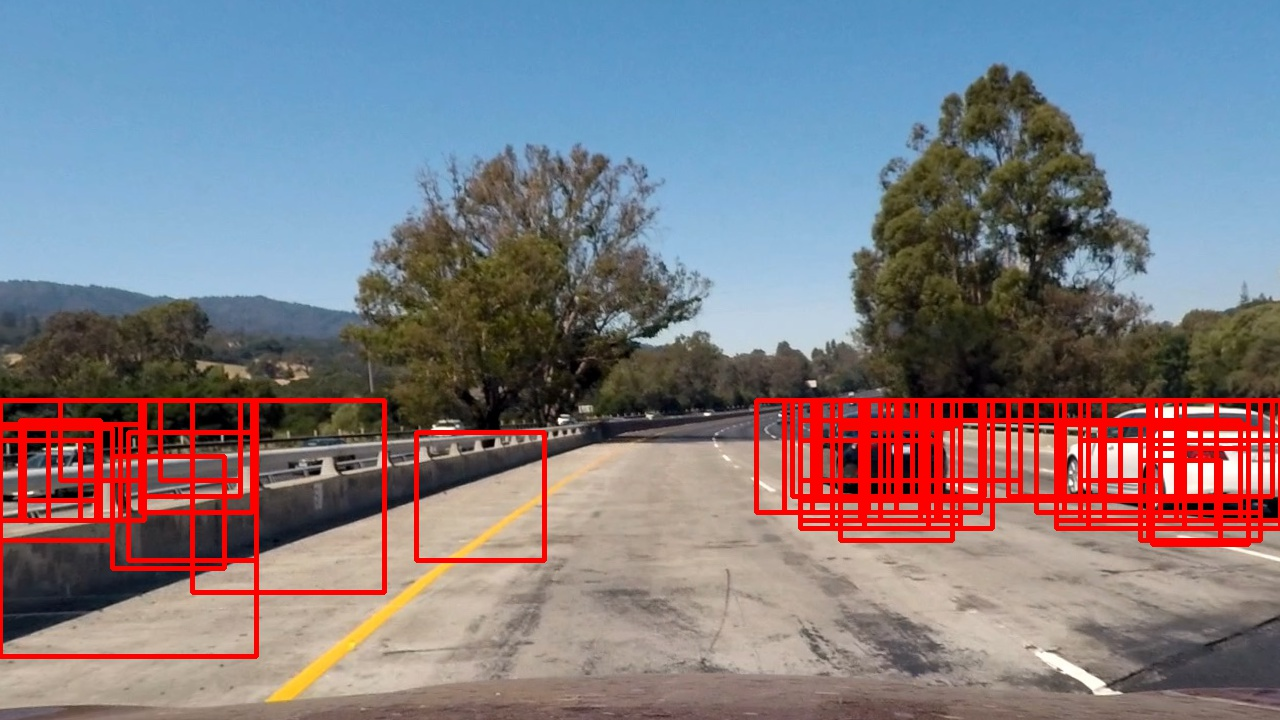
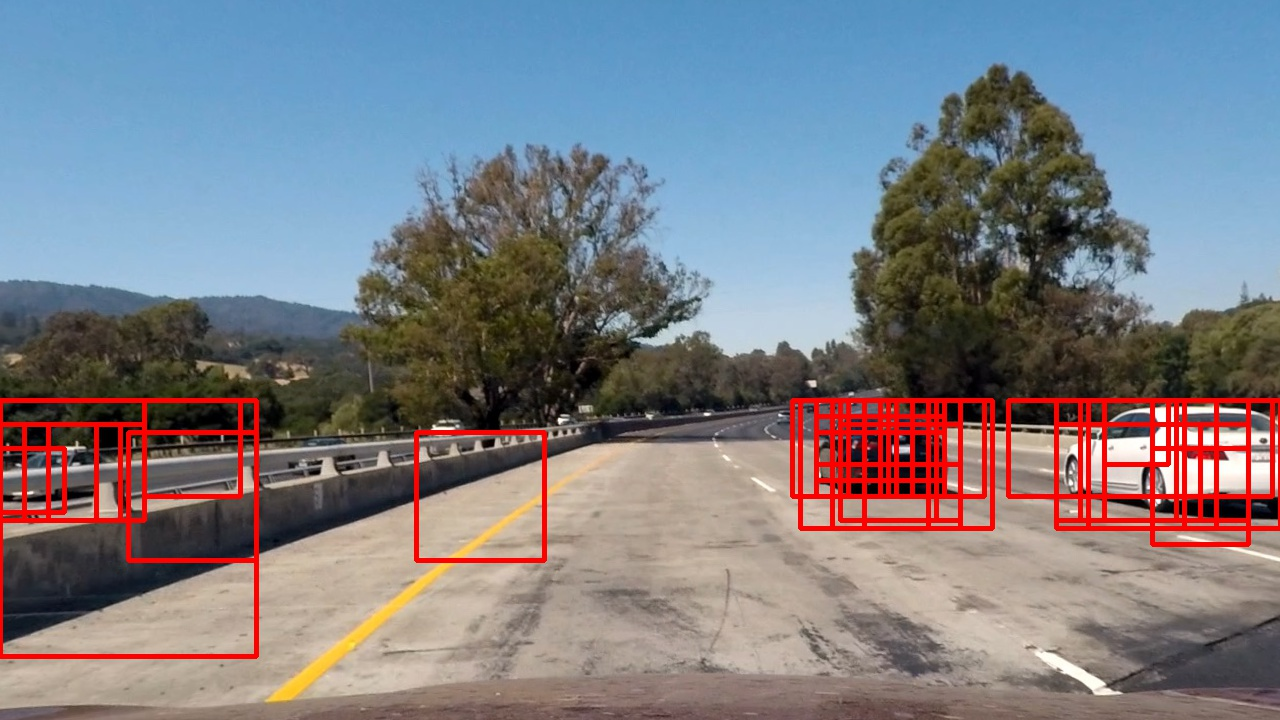
update result

Changed region(s): [[0.5625, 0.55, 1.0, 0.7639], [0.0, 0.55, 0.3125, 0.825]]

diff --git a/writeup.md b/writeup.md
@@ -13,13 +13,6 @@ The goals / steps of this project are the following:
 * Run your pipeline on a video stream (start with the test_video.mp4 and later implement on full project_video.mp4) and create a heat map of recurring detections frame by frame to reject outliers and follow detected vehicles.
 * Estimate a bounding box for vehicles detected.
 
-[//]: # (Image References)
-[image3]: ./examples/sliding_windows.jpg
-[image4]: ./examples/sliding_window.jpg
-[image5]: ./examples/bboxes_and_heat.png
-[image6]: ./examples/labels_map.png
-[image7]: ./examples/output_bboxes.png
-[video1]: ./project_video.mp4
 
 ## [Rubric](https://review.udacity.com/#!/rubrics/513/view) Points
 ###Here I will consider the rubric points individually and describe how I addressed each point in my implementation.  
@@ -116,23 +109,23 @@ You're reading it!
 
 ####1. Describe how (and identify where in your code) you implemented a sliding window search.  How did you decide what scales to search and how much to overlap windows?
 
-* 
+* tuned parameters with `debug_interative_window_search.ipynb`
+  * overlap : 0.25 (cells_per_step = 2)
+  * scale : 1.0, 1.5, 2.0, 4.0
 
 ####2. Show some examples of test images to demonstrate how your pipeline is working.  What did you do to optimize the performance of your classifier?
 
-Ultimately I searched on two scales using YCrCb 3-channel HOG features plus spatially binned color and histograms of color in the feature vector, which provided a nice result.  Here are some example images:
+Ultimately I searched on 4 scales using YCrCb 3-channel HOG features plus spatially binned color and histograms of color in the feature vector, which provided a nice result.  Here are some example images:
 
-![test1](./test_images/test1.jpg =400x)
-![test1](./output_images/test1.jpg =400x)
+![test1](./output_images/window_bboxes_test1.jpg =300x)
+![test2](./output_images/window_bboxes_test2.jpg =300x)
 
-![test2](./test_images/test2.jpg =400x)
-![test2](./test_images/test2.jpg =400x)
+![test3](./output_images/window_bboxes_test3.jpg =300x)
+![test4](./output_images/window_bboxes_test4.jpg =300x)
 
-![test3](./test_images/test3.jpg =400x)
-![test3](./test_images/test3.jpg =400x)
+![test5](./output_images/window_bboxes_test5.jpg =300x)
+![test6](./output_images/window_bboxes_test6.jpg =300x)
 
-
-![alt text][image4]
 ---
 
 ### Video Implementation
@@ -149,14 +142,33 @@ Here's an example result showing the heatmap from a series of frames of video, t
 
 ### Here are six frames and their corresponding heatmaps:
 
-![alt text][image5]
+![frame1](./test_images/test_video_frames/1.jpg =300x)
+![frame1](./output_images/window_heatmap_test1.png =300x)
+
+![frame2](./test_images/test_video_frames/2.jpg =300x)
+![frame2](./output_images/window_heatmap_test2.png =300x)
+
+![frame3](./test_images/test_video_frames/3.jpg =300x)
+![frame3](./output_images/window_heatmap_test3.png =300x)
+
+![frame4](./test_images/test_video_frames/4.jpg =300x)
+![frame4](./output_images/window_heatmap_test4.png =300x)
+
+![frame5](./test_images/test_video_frames/5.jpg =300x)
+![frame5](./output_images/window_heatmap_test5.png =300x)
+
+![frame6](./test_images/test_video_frames/6.jpg =300x)
+![frame6](./output_images/window_heatmap_test6.png =300x)
+
 
 ### Here is the output of `scipy.ndimage.measurements.label()` on the integrated heatmap from all six frames:
-![alt text][image6]
+![label](./output_images/window_label.png =400x)
+
+
 
 ### Here the resulting bounding boxes are drawn onto the last frame in the series:
-![alt text][image7]
 
+![result](./output_images/window_result.jpg =400x)
 
 
 ---
@@ -165,9 +177,13 @@ Here's an example result showing the heatmap from a series of frames of video, t
 
 ####1. Briefly discuss any problems / issues you faced in your implementation of this project.  Where will your pipeline likely fail?  What could you do to make it more robust?
 
-Here I'll talk about the approach I took, what techniques I used, what worked and why, where the pipeline might fail and how I might improve it if I were going to pursue this project further.  
+* disadvantages of SVM
+  * single SVM prediction is so fast
+  * but it must be searched multiple times through window search, resulting in slow
+  * there are many false positive
 
-* using another architecture  : https://www.slideshare.net/xavigiro/ssd-single-shot-multibox-detector
-  * Faster RNN : https://github.com/smallcorgi/Faster-RCNN_TF
-  * YOLO : https://pjreddie.com/darknet/yolo/
-  * SSD : https://github.com/rykov8/ssd_keras
+* I think there are better architectures than SVM
+  * https://www.slideshare.net/xavigiro/ssd-single-shot-multibox-detector
+    * Faster RNN : https://github.com/smallcorgi/Faster-RCNN_TF
+    * YOLO : https://pjreddie.com/darknet/yolo/
+    * SSD : https://github.com/rykov8/ssd_keras
